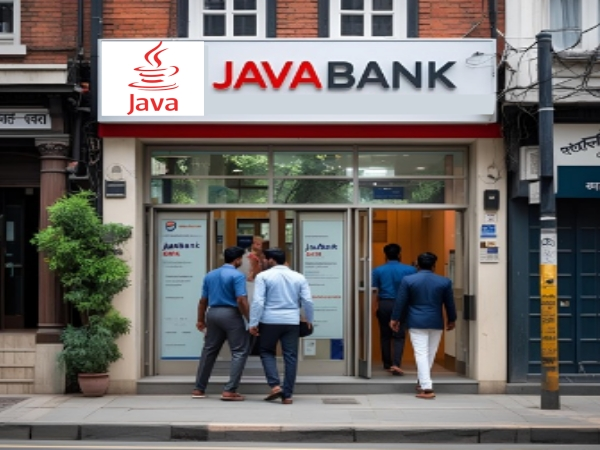
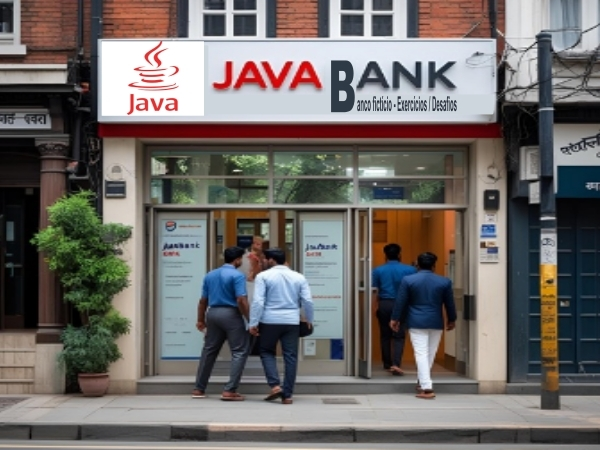
at

Changed region(s): [[0.54, 0.1244, 0.78, 0.2489]]

diff --git a/README.md b/README.md
@@ -1,9 +1,8 @@
+<img src="Sintaxe-ContaBanco/img-javaBank.jpg">
 
-<img src="img-javaBank.jpg">
+# Bootcamp Santander 2025 Back-End com Java
 
-# Bootcamp: Santander 2025 - Back-End com Java
-
-# JAVA EXERCÍCIOS / DESAFIOS
+## JAVA EXERCÍCIOS / DESAFIOS
 
 ## 1- Controle fluxo - Desafio
 
@@ -103,11 +102,7 @@ Dentro do projeto crie a class *contaTerminal.java*, para realizar toda a codifi
 
 Resultados em: Respostas.md
 
-<img src="https://solmorcillo.com.br/imgs-public/logo_SM.png" width="100px" height="100px">
-
-
-
-
+<img src="https://solmorcillo.com.br/imgs_public/logo_SM.jpg" width="100px" height="120px">
 
 
 
